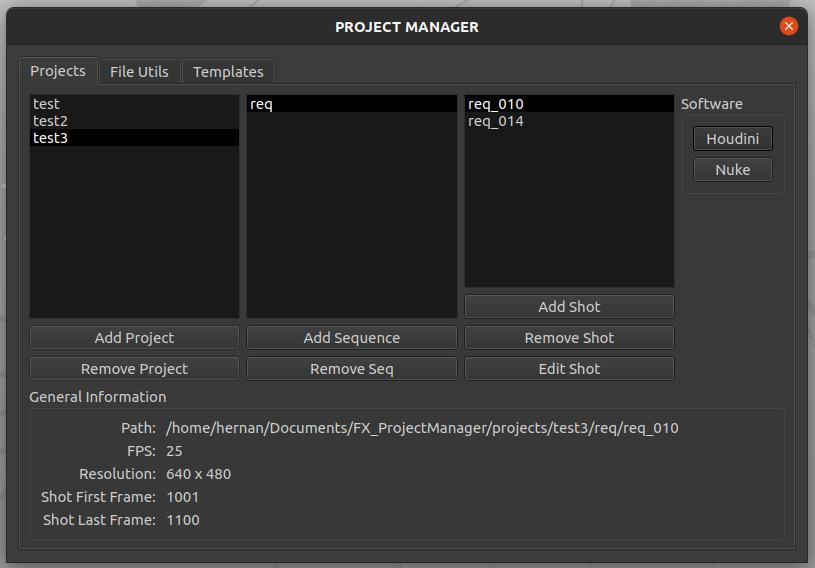
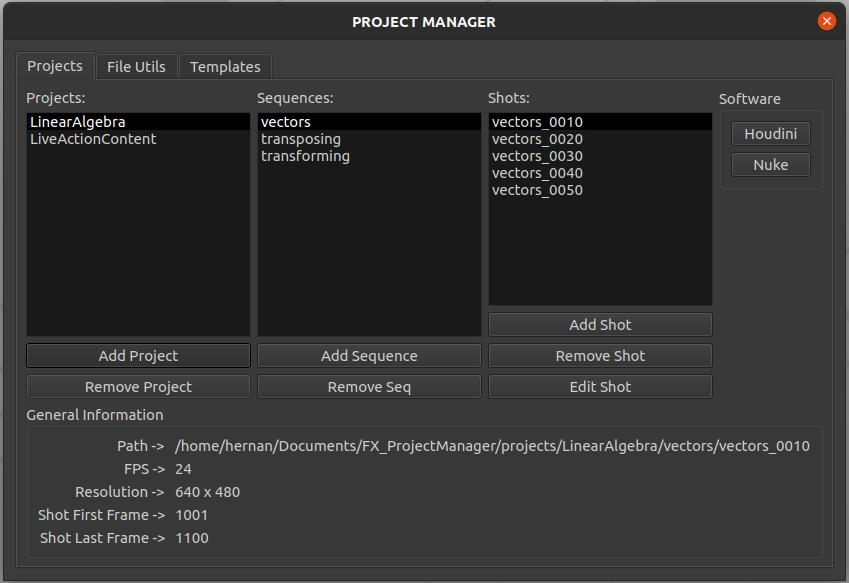
improving main window interface

Changed region(s): [[0.0, 0.0, 1.0, 1.0], [0.5521, 0.6285, 0.5828, 0.6585]]

diff --git a/ppm_lib/ppm_main_ui.py b/ppm_lib/ppm_main_ui.py
@@ -64,11 +64,13 @@ class PPM_Main_UI(QDialog):
     def widgets(self):
         # Projects widgets        
         # - Projects
+        self.lbl_projects = QLabel("Projects:")
         self.lst_projects = QListWidget()        
         self.btn_add_project = QPushButton("Add Project")
         self.btn_rm_project = QPushButton("Remove Project")
         
         # - Sequences
+        self.lbl_sequences = QLabel("Sequences:")
         self.lst_sequences = QListWidget()
         self.btn_add_seq = QPushButton("Add Sequence")
         self.btn_add_seq.setEnabled(False)
@@ -78,6 +80,7 @@ class PPM_Main_UI(QDialog):
         self.btn_rm_seq.setStyleSheet("background-color: rgb(100,100,100)")
         
         # - Shots
+        self.lbl_shots = QLabel("Shots:")
         self.lst_shots = QListWidget()
         self.btn_add_shot = QPushButton("Add Shot")
         self.btn_add_shot.setEnabled(False)
@@ -156,22 +159,25 @@ class PPM_Main_UI(QDialog):
         
         self.grp_info = QGroupBox("General Information")
         self.lbl_path = QFormLayout()
-        self.lbl_path.addRow("Path: ", self.lbl_project_path)  
-        self.lbl_path.addRow("FPS: ", self.lbl_project_fps)      
-        self.lbl_path.addRow("Resolution: ", self.lbl_project_resolution) 
-        self.lbl_path.addRow("Shot First Frame: ", self.lbl_shot_first_frame)
-        self.lbl_path.addRow("Shot Last Frame: ", self.lbl_shot_last_frame)        
+        self.lbl_path.addRow("Path -> ", self.lbl_project_path)  
+        self.lbl_path.addRow("FPS -> ", self.lbl_project_fps)      
+        self.lbl_path.addRow("Resolution -> ", self.lbl_project_resolution) 
+        self.lbl_path.addRow("Shot First Frame -> ", self.lbl_shot_first_frame)
+        self.lbl_path.addRow("Shot Last Frame -> ", self.lbl_shot_last_frame)        
         self.lbl_path.setLabelAlignment(Qt.AlignRight)
         self.grp_info.setLayout(self.lbl_path)
         
+        self.lyt_projects.addWidget(self.lbl_projects)
         self.lyt_projects.addWidget(self.lst_projects)
         self.lyt_projects.addWidget(self.btn_add_project)
         self.lyt_projects.addWidget(self.btn_rm_project)
         
+        self.lyt_sequences.addWidget(self.lbl_sequences)
         self.lyt_sequences.addWidget(self.lst_sequences)
         self.lyt_sequences.addWidget(self.btn_add_seq)
         self.lyt_sequences.addWidget(self.btn_rm_seq)
         
+        self.lyt_shots.addWidget(self.lbl_shots)
         self.lyt_shots.addWidget(self.lst_shots)
         self.lyt_shots.addWidget(self.btn_add_shot)
         self.lyt_shots.addWidget(self.btn_rm_shot)
